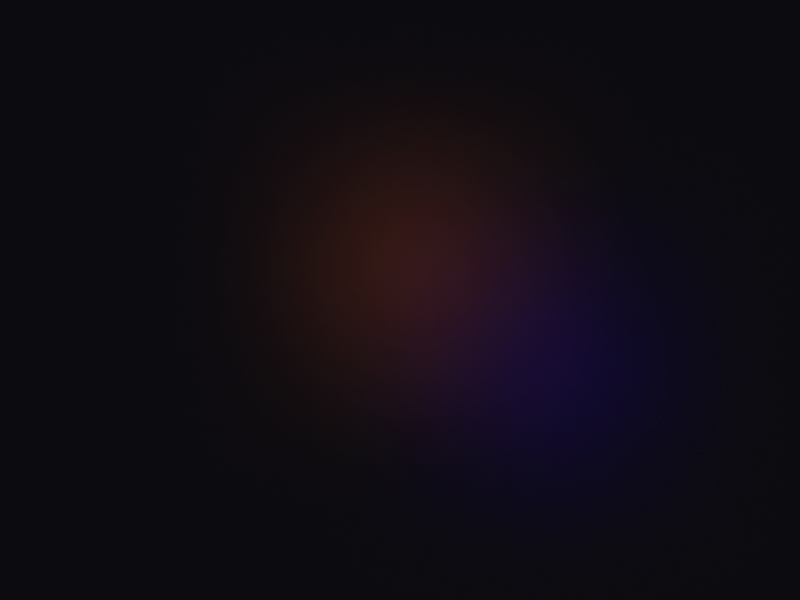
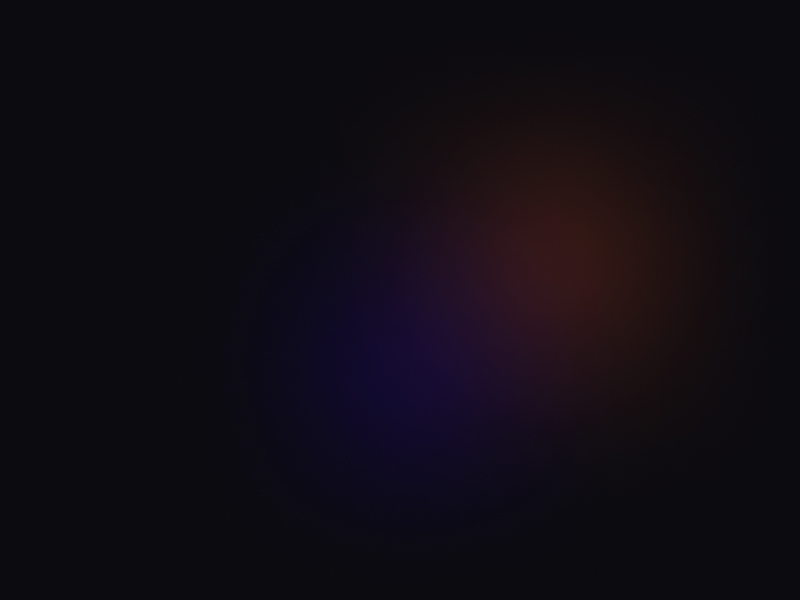
card 1 glow fix

diff --git a/style.css b/style.css
@@ -1315,7 +1315,7 @@ ul.list_text li::before {
     left: 0;
     right: 0;
     width: 100%;
-    background-position: top -90px right -130px;
+    background-position: top -90px right -90px;
   }
 
   .image_glow_left {
